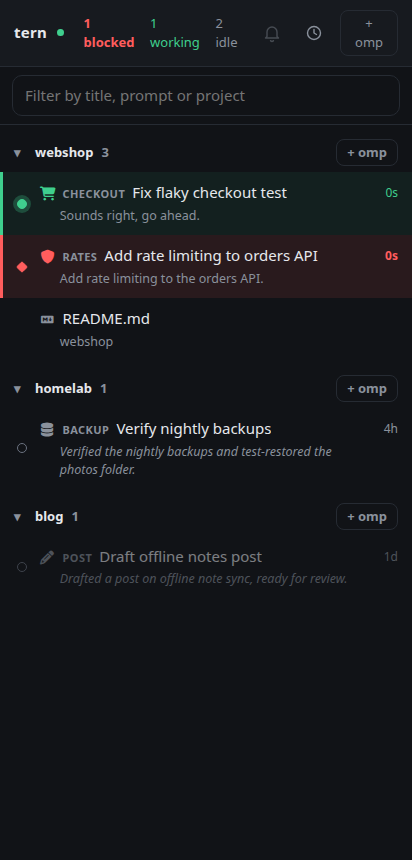
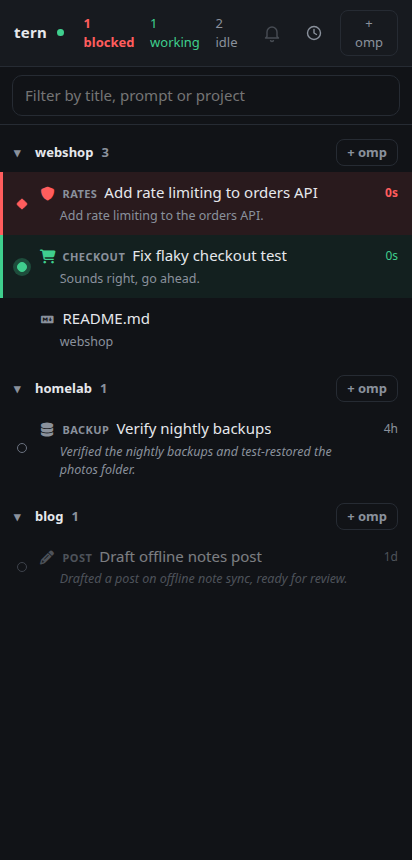
Screenshots show Opus 5.5; security docs state what non-Tailscale setups need

Changed region(s): [[0.0, 0.2116, 0.7864, 0.3628], [0.932, 0.2721, 0.9612, 0.3023], [0.932, 0.2116, 0.9612, 0.2419]]

diff --git a/docs/screenshots.ts b/docs/screenshots.ts
@@ -33,7 +33,7 @@ class Log {
     return id;
   }
   user(text: string, at: number) { return this.add({ role: "user", content: [{ type: "text", text }] }, at); }
-  assistant(content: Part[], at: number, stop = "stop") { return this.add({ role: "assistant", content, model: "claude-opus-4-5", stopReason: stop }, at); }
+  assistant(content: Part[], at: number, stop = "stop") { return this.add({ role: "assistant", content, model: "claude-opus-5-5", stopReason: stop }, at); }
   result(id: string, name: string, at: number, details: Part = {}) {
     return this.add({ role: "toolResult", toolCallId: id, toolName: name, content: [{ type: "text", text: "ok" }], isError: false, details }, at);
   }
@@ -112,7 +112,7 @@ const agents: [string, Log, string, Part][] = [
   ["6", post, "idle", {}],
 ];
 for (const [pane, log, status, extra] of agents) {
-  const ext = new Extension(s, pane, "anthropic/claude-opus-4-5");
+  const ext = new Extension(s, pane, "anthropic/claude-opus-5-5");
   Object.assign(ext.snapshot, { sessionId: log.id, leaf: log.leaf, status, protocol: PROTOCOL, build, ...extra });
   await ext.connect();
 }

diff --git a/docs/architecture.md b/docs/architecture.md
@@ -165,7 +165,7 @@ The server reads these from its environment; the installer writes them into the 
 This is a remote shell into the desktop.
 
 - The server listens only on `127.0.0.1`. The only way in from outside is Tailscale Serve (tailnet only), which sets `Tailscale-User-Login`, and every request (the API, its stream and the app's own files) must carry an allowed login from `TERN_AWUI_ALLOW`; anything else gets 403. Tagged devices get no login header, so they are refused. There is no pairing or access token on top: anyone signed in to the tailnet as an allowed login gets a shell. **Never enable Funnel.**
-- Behind any other tunnel or reverse proxy (e.g. Cloudflare Tunnel with Access), the proxy must authenticate every request and drop any client-supplied `Tailscale-User-Login`; the server trusts that header as-is because only Tailscale Serve is expected to reach it.
+- Any other tunnel or reverse proxy (e.g. Cloudflare Tunnel with Access) must authenticate every request and then set `Tailscale-User-Login` to an allowed login, overwriting any client-supplied value; the server trusts that header as-is because only Tailscale Serve is expected to reach it.
 - POSTs require an `x-tern-mobile: 1` header, which blocks cross-site form posts. Key names are allowlisted.
 - `/bridge` refuses requests carrying a Tailscale login header (anything proxied from outside) and requires the bridge token (`<config dir>/bridge-token`).
 - `TERN_AWUI_DEV=1` turns off the login check: anyone who can reach the port gets a shell. Use it only on loopback, never behind Tailscale Serve.

diff --git a/README.md b/README.md
@@ -99,7 +99,10 @@ This is a remote shell into your desktop. **Never expose it publicly:** no port 
 
 Tailscale is the strongly recommended setup, and the only one the installer configures. The server listens only on `127.0.0.1`, `tailscale serve` makes it reachable on your tailnet only, and every request must carry an allowed Tailscale login.
 
-Other private setups can work too: using it only on the machine itself, or behind a tunnel or reverse proxy that does the authentication itself, for example Cloudflare Tunnel with Cloudflare Access. The app's login check only understands Tailscale's `Tailscale-User-Login` header. Behind anything else, the proxy is your only protection: it has to authenticate every request and must never pass on a `Tailscale-User-Login` header sent by the client. Otherwise anyone can claim to be you.
+Other private setups can work, but the installer doesn't set them up, and every request still needs an allowed `Tailscale-User-Login` header (403 otherwise):
+
+- **Behind an authenticating proxy** (e.g. Cloudflare Tunnel with Cloudflare Access): after authenticating, the proxy must set `Tailscale-User-Login` to an allowed login from `TERN_AWUI_ALLOW`. It must overwrite any value the client sent, or anyone can claim to be you.
+- **Only on the machine itself:** `TERN_AWUI_DEV=1` turns the login check off. Use it only when nothing but loopback can reach the port, never behind a tunnel or proxy.
 
 Details are in [how it works](docs/architecture.md#security).
 

diff --git a/CHANGELOG.md b/CHANGELOG.md
@@ -3,7 +3,8 @@
 ## Unreleased
 
 - CI fixes: the sanitizer binds to the current window (a test file loading it under another file's DOM left it sanitizing nothing, depending on file order); path expectations use the OS separator; installer `main()` tests, which run shell-script fakes, skip on Windows; the cold-start PowerShell test gets 30 s.
-- README security section: never expose the app publicly; Tailscale is the recommended setup, and other private setups (local only, an authenticating tunnel such as Cloudflare Access) must authenticate every request themselves and never forward a client-supplied `Tailscale-User-Login`.
+- README security section: never expose the app publicly; Tailscale is the recommended setup. Other private setups are described with their requirements: an authenticating proxy (such as Cloudflare Access) must set an allowed `Tailscale-User-Login` itself, overwriting the client's, and `TERN_AWUI_DEV=1` is for loopback-only use.
+- README screenshots show Opus 5.5.
 
 ## 0.2.0 (2026-10-13)
 
